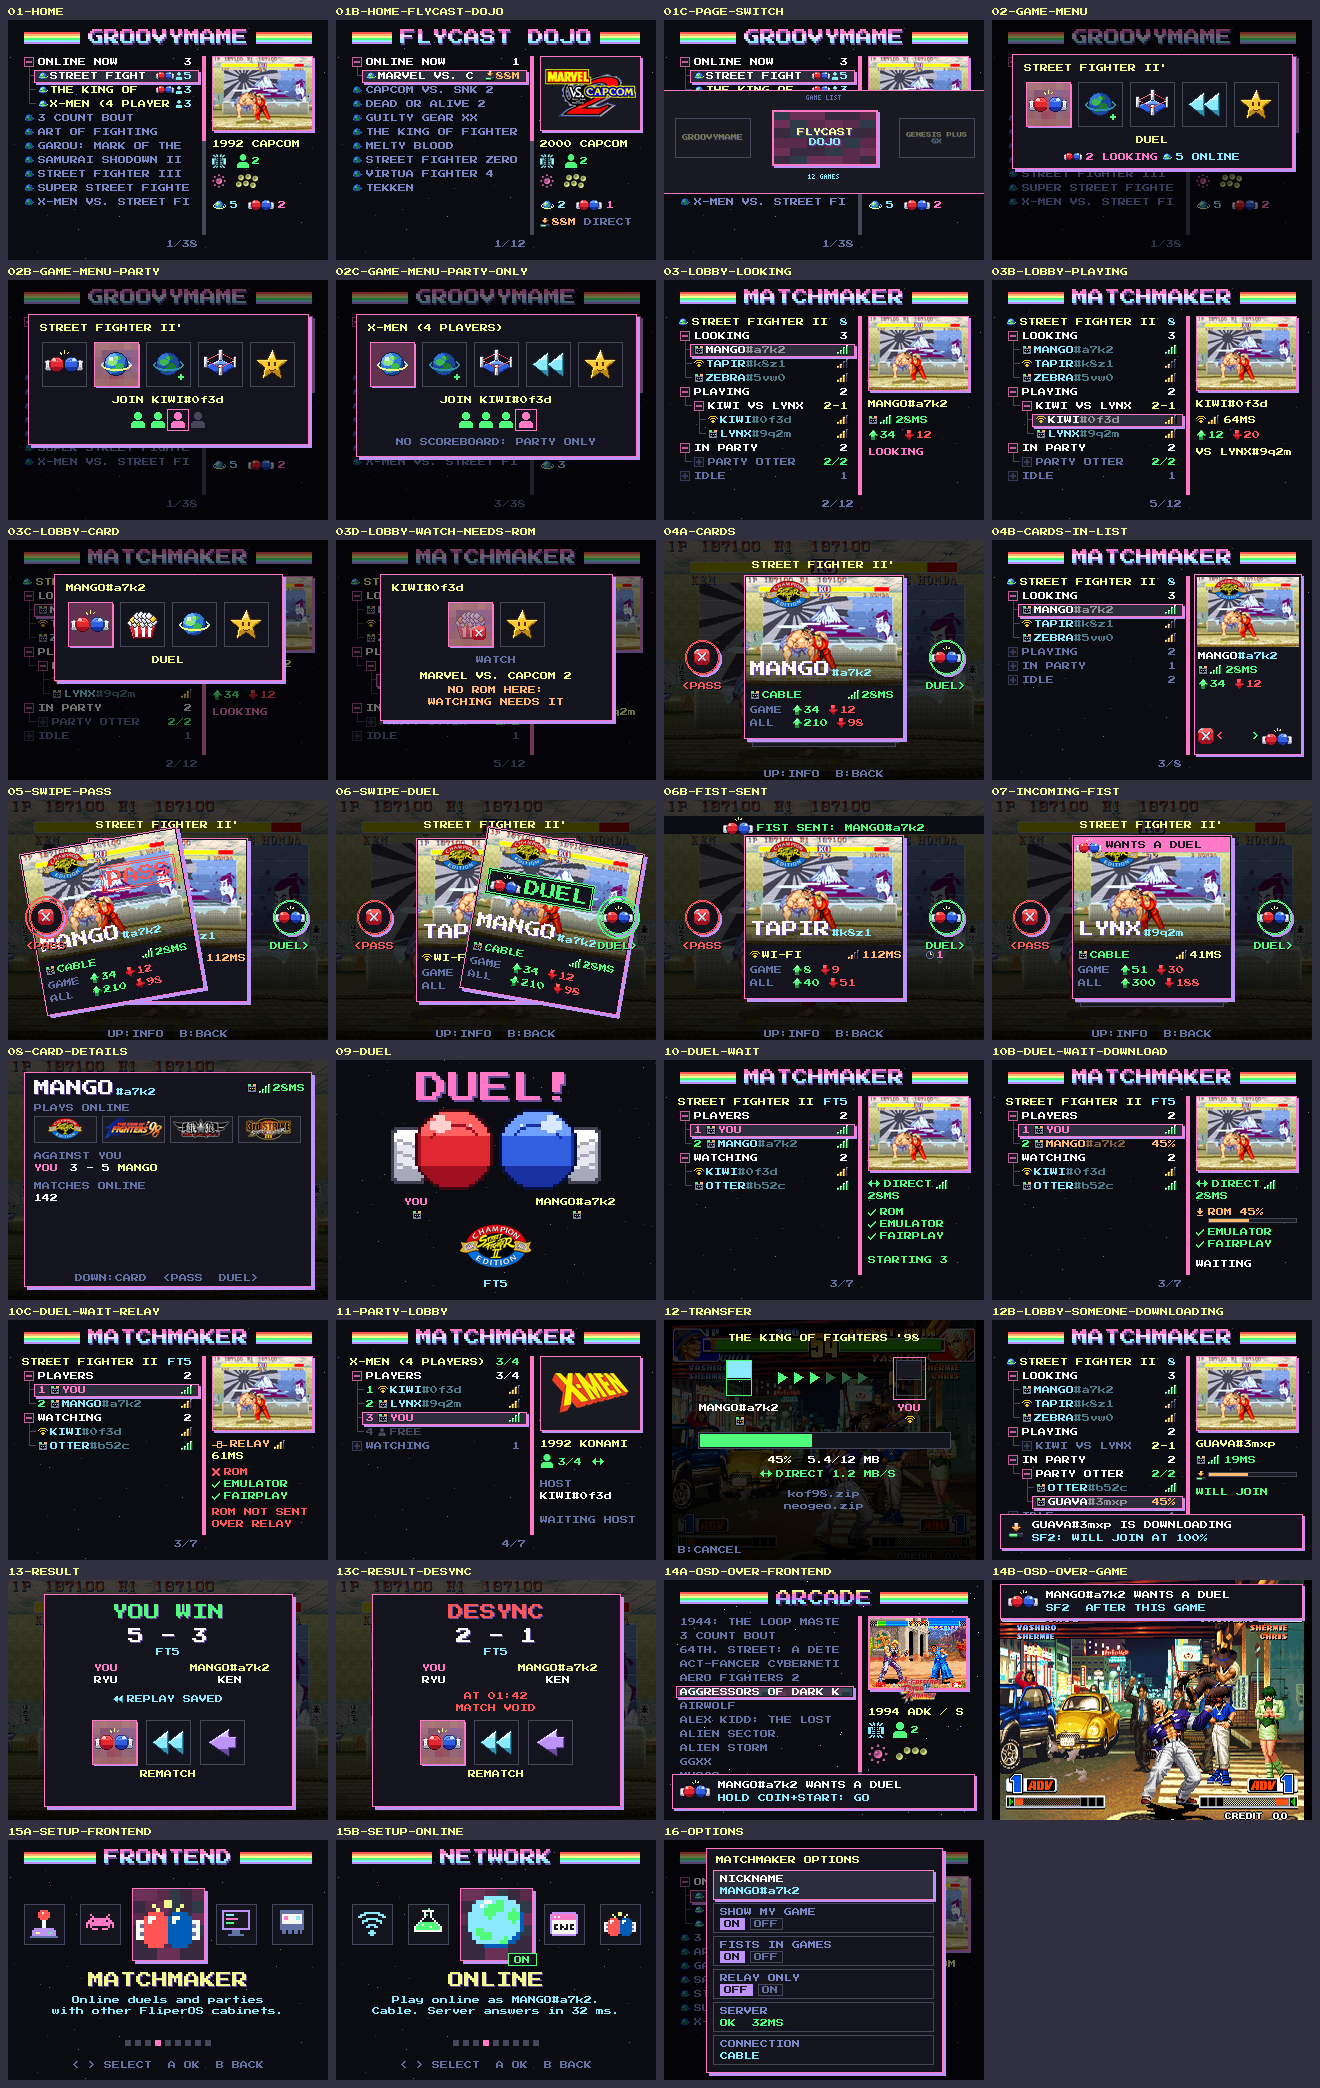
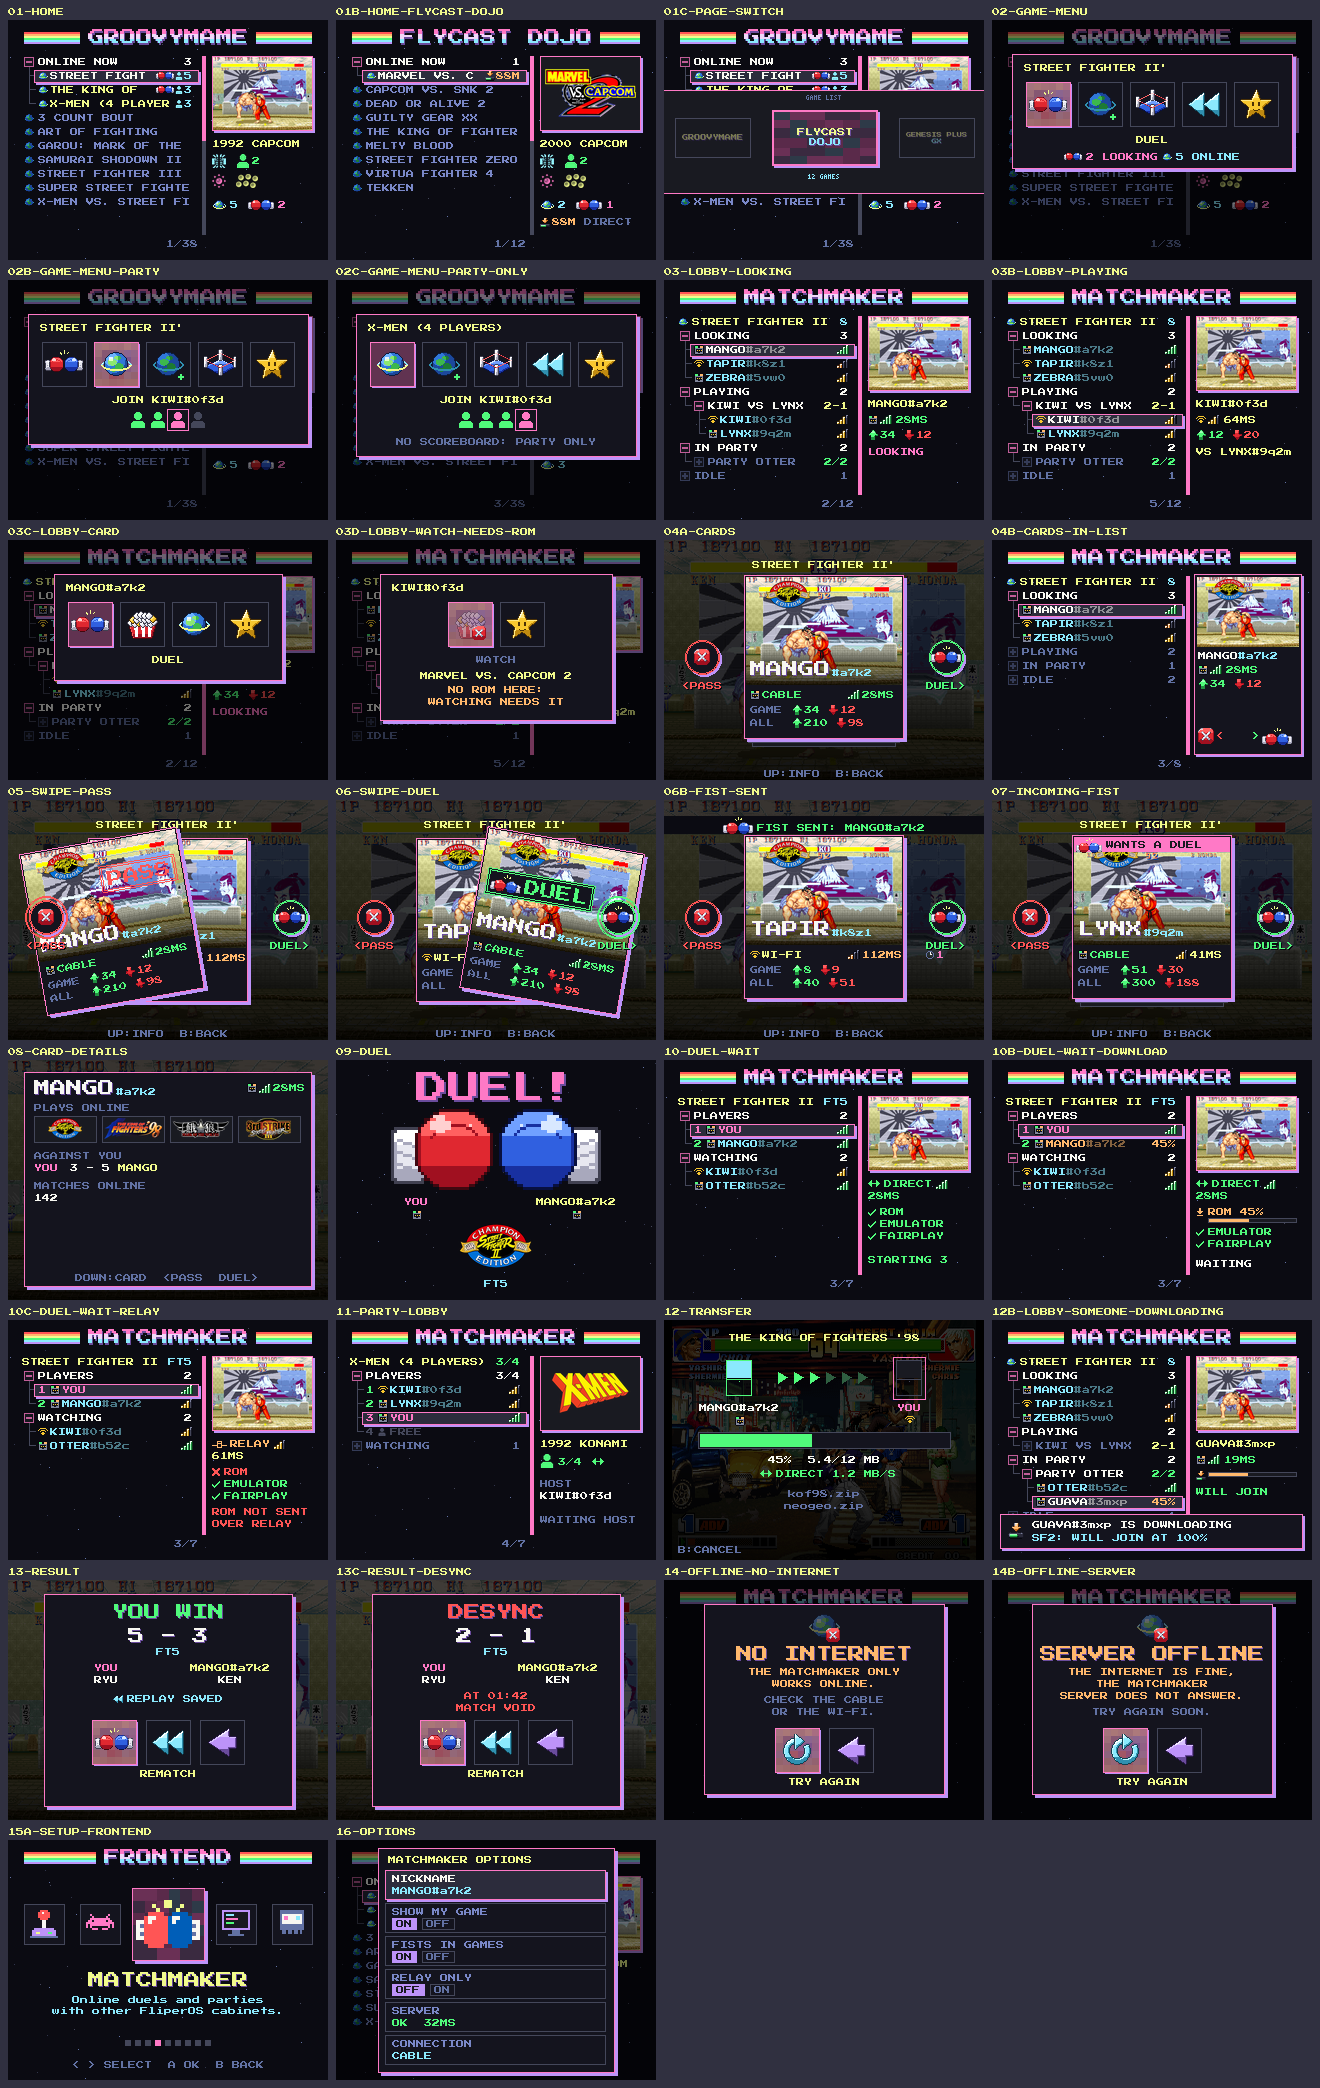
Matchmaker: online so dentro do Matchmaker, e a tela de quem esta offline
O usuario decidiu que o online existe so com o Matchmaker aberto: sem o
item ONLINE no Setup > Network, sem avisos no OSD fora dele e sem servico
sempre ligado. Os ajustes online ficam so nas opcoes do Matchmaker.

- Ao entrar, o Matchmaker confere a internet e o servidor: as telas
  14-offline-no-internet e 14b-offline-server (TRY AGAIN ou voltar).
  Sairam as telas do OSD (14a, 14b) e do Setup > Online (15b).
- O icone de tentar de novo (iconlab.retry_icon): o anel girando no
  sentido do relogio, aberto no alto a direita, com a ponta da seta reta
  no alto apontando para a abertura.
- matchmaker-plan.md: as decisoes novas (online so dentro do Matchmaker,
  o Setup so com o frontend, o backup na nuvem com a ficha assinada e o
  PIN) e o que roda no gabinete. TODO.md: a fase 1 com o servidor no ar,
  o backup na nuvem.

Changed region(s): [[0.2485, 0.7471, 0.9939, 0.9962]]

diff --git a/tools/matchmaker/mockups.py b/tools/matchmaker/mockups.py
@@ -1666,6 +1666,39 @@ def result_screen(kind="win"):
 
 # ------------------------------------------------------------ 14: OSD notice
 
+def offline_screen(kind):
+    """Entering the Matchmaker without being online: it checks the internet and
+    the server first, and says what is missing (it only works online; nothing
+    of the Matchmaker runs outside it)."""
+    cv = canvas()
+    cv.dim_all(0.35)
+    globe_x = dimmed(planet(True, TILE_ICON))
+    retry = iconlab.retry_icon()
+    back = iconlab.Icon(32).poly([(3, 16), (22, 3), (22, 11), (29, 11), (29, 21), (22, 21), (22, 29)], "purple").im
+    if kind == "internet":
+        title, lines, color, strong = "NO INTERNET", ["THE MATCHMAKER ONLY", "WORKS ONLINE.", "CHECK THE CABLE", "OR THE WI-FI."], ORANGE, 2
+    else:
+        title, lines, color, strong = "SERVER OFFLINE", ["THE INTERNET IS FINE,", "THE MATCHMAKER", "SERVER DOES NOT ANSWER.", "TRY AGAIN SOON."], ORANGE, 3
+
+    def body(c, x0, x1, y):
+        for i, ln in enumerate(lines):
+            c.center(y + 12 * i + (4 if i >= strong else 0), ln, color if i < strong else COMMENT, x0, x1)
+    w = 240
+    x0 = (W - w) // 2
+    y0, y1 = 24, 214
+    cv.box(x0 + 3, y0 + 3, x0 + w + 3, y1 + 3, fill=PURPLE)
+    cv.box(x0, y0, x0 + w, y1, fill=CARD, outline=PINK)
+    cv.paste_icon(globe_x, (W - globe_x.width) // 2, y0 + 6)
+    big_center(cv, y0 + 42, title, color, x0=x0, x1=x0 + w)
+    body(cv, x0, x0 + w, y0 + 64)
+    size, gap = TILE, 10
+    tx = (W - (2 * size + gap)) // 2
+    for i, ic in enumerate((retry, back)):
+        fm.tile(cv, tx + i * (size + gap), y0 + 124, size, ic, i == 0, fm.snap("sf2ce"))
+    cv.center(y0 + 124 + size + 6, "TRY AGAIN", YELLOW, x0, x0 + w)
+    return cv
+
+
 def osd_over_frontend():
     bg = Image.open(REAL_LIST).convert("RGB").resize((W, H), Image.NEAREST)
     cv = fm.Canvas(bg=bg)
@@ -1997,10 +2030,9 @@ def main():
         "12b-lobby-someone-downloading": lobby_screen("guava", ("GUAVA#3mxp IS DOWNLOADING", "SF2: WILL JOIN AT 100%")),
         "13-result": result_screen("win"),
         "13c-result-desync": result_screen("desync"),
-        "14a-osd-over-frontend": osd_over_frontend(),
-        "14b-osd-over-game": osd_over_game(),
+        "14-offline-no-internet": offline_screen("internet"),
+        "14b-offline-server": offline_screen("server"),
         "15a-setup-frontend": setup_frontend(ti),
-        "15b-setup-online": setup_online(ti),
         "16-options": options_screen(),
     }
     for name, cv in shots.items():

diff --git a/tools/matchmaker/iconlab.py b/tools/matchmaker/iconlab.py
@@ -1252,6 +1252,20 @@ def loss_sheet():
     return out
 
 
+# ------------------------------------------------------------------ TRY AGAIN
+
+def retry_icon(ramp="cyan"):
+    """Try again: a thick ring turning clockwise, open at the top right, with a
+    straight arrowhead at its top end pointing right, into the opening."""
+    I = Icon()
+    cx, cy, r, t = 15.5, 17, 10, 5
+    # the ring from 330 degrees (right, a little up) clockwise round to 270 (the top)
+    I.arc((cx - r - t / 2, cy - r - t / 2, cx + r + t / 2, cy + r + t / 2), 330, 270, t, ramp)
+    top = cy - r                                     # the middle of the stroke at the top
+    I.poly([(14, top - 7), (14, top + 7), (22, top)], ramp)
+    return I.im
+
+
 # ------------------------------------------------------------------ THE CHOSEN ONES
 
 # What the user chose on 2026-11-27 (fists: fists.py option 3).

diff --git a/docs/research/matchmaker-plan.md b/docs/research/matchmaker-plan.md
@@ -21,10 +21,11 @@ The mock-ups are in [`matchmaker-mockups/`](matchmaker-mockups/) (320x240 shown 
 | Connection | Every player shows **Wi-Fi or cable** (the RX/TX jack) and the ping |
 | ROMs | Sent **automatically to whoever plays**, cabinet to cabinet, only over a direct connection (never through the relay). **Spectators never get the ROM**: watching needs it already on the cabinet |
 | Server | The project's own server (Coolify, where the site runs). A relay only when a direct connection is impossible (CGNAT on both sides); rollback hides the longer path, it cannot create a route the NAT blocks |
-| Notifications | A fist bump received outside the Matchmaker shows on the OSD bar, in the frontend or in a game, with a shortcut to the Matchmaker |
+| Online only inside it | The cabinet is online **only while the Matchmaker is open**: no background service, no notifications outside it (a fist bump shows only inside the Matchmaker). On entering, the Matchmaker checks the internet and the server and says what is missing |
 | Wins and losses | Kept **only on the server**, encrypted and fraud-proof (see FairPlay). **No dispute mode**: a match the two cabinets don't agree on simply doesn't count |
 | No chat | The Matchmaker has no chat |
-| Setup | Setup > Network > ONLINE switches the online service on and off (A, like DEBUG MODE), with an 8-bit icon in the Setup's style. The online settings are in both Setup > Network and the Matchmaker's options |
+| Setup | The Matchmaker is a frontend in Setup > Games > Frontend (an 8-bit gloves icon in the Setup's style). There is no online item in the Setup: the online settings are in the Matchmaker's options |
+| Cloud backup | The cabinet's identity and its record go in the cloud backup (rclone): the record as a profile **signed by the server** (Ed25519) and encrypted (AES-256-GCM), the identity's secret sealed with a **6-digit PIN** (Argon2id). Reinstalling asks for the PIN once |
 
 ## The screens
 
@@ -71,11 +72,11 @@ The gloves come in and bump, the flash, DUEL!, both names, the game's logo and F
 - Transfer ([12](matchmaker-mockups/12-transfer.png)), and what the others see while someone downloads ([12b](matchmaker-mockups/12b-lobby-someone-downloading.png)).
 - Result: [13](matchmaker-mockups/13-result.png) (REMATCH, REPLAY, BACK); a match that lost sync does not count ([13c](matchmaker-mockups/13c-result-desync.png)).
 
-### Outside the Matchmaker
+### Entering, the Setup, the options
 
-- The OSD bar over the frontend and over a game ([14a](matchmaker-mockups/14a-osd-over-frontend.png), [14b](matchmaker-mockups/14b-osd-over-game.png)).
-- The Matchmaker in Setup > Games > Frontend, with its 8-bit gloves icon ([15a](matchmaker-mockups/15a-setup-frontend.png)), and ONLINE in Setup > Network ([15b](matchmaker-mockups/15b-setup-online.png)).
-- The Matchmaker's options ([16](matchmaker-mockups/16-options.png)).
+- Entering without the internet ([14](matchmaker-mockups/14-offline-no-internet.png)) or with the server not answering ([14b](matchmaker-mockups/14b-offline-server.png)): TRY AGAIN or back.
+- The Matchmaker in Setup > Games > Frontend, with its 8-bit gloves icon ([15a](matchmaker-mockups/15a-setup-frontend.png)).
+- The Matchmaker's options ([16](matchmaker-mockups/16-options.png)): the online settings live only there.
 
 ### The icons
 
@@ -84,7 +85,8 @@ All the Matchmaker's icons are 16-bit sprites (a dark outline, a bevel, four ton
 ## How it would work
 
 - **Server** (`server/matchmaker/`, Python asyncio, WebSocket over TLS, SQLite on an encrypted volume), deployed on Coolify: identity, presence, lobbies, parties, fist bumps and duels, results, replays. The Coolify server sits behind CGNAT and is reached through a Cloudflare Tunnel, so the server opens **no UDP port**: the cabinets learn their public address from Cloudflare's STUN (`stun.cloudflare.com`), and the relay is **Cloudflare Realtime TURN** (the server hands out short-lived credentials per match and stops before the 1,000 GB monthly free tier).
-- **On the cabinet:** a session service (`fliperos-online`) that stays connected, a small root service for the tunnel, and the Matchmaker program (pygame, `mmview.py` for the list-mode look).
+- **On the cabinet:** the Matchmaker program (pygame, `mmview.py` for the list-mode look) connects while it is open; a small root helper sets up the tunnel of a match. Nothing online runs when the Matchmaker is closed.
+- **The profile (the record):** after every accepted match the server issues the player's profile, signed with Ed25519 (the private key only in the server's environment; FliperOS carries the public key, `GET /pubkey`). The cabinet keeps it in its cloud backup encrypted with AES-256-GCM (a key from its secret by HKDF), and the secret sealed with AES-256-GCM under a key from the player's PIN by Argon2id. Editing the profile breaks the signature; an older one loses to a newer version; the server stays the authority.
 - **The match: a WireGuard tunnel per match.** The server introduces the two cabinets; they open their NATs with simultaneous handshakes (LAN address, IPv6, public IPv4 from STUN); if that fails, the WireGuard packets go through Cloudflare's TURN, through a small local forwarder between WireGuard and the TURN allocation (the relay never sees inside the WireGuard packets). Inside the tunnel runs the local party code that is already tested on hardware (felink's party and file server, GroovyMAME's lockstep, Flycast's GGPO, RetroArch's net play), with the input delay taken from the ping.
 - **ROM check:** the CRC and size of each file inside the zip, `-verifyroms` on both sides for MAME, FBNeo's own CRC list. A different version goes to its own folder; nothing of the user's is overwritten.
 

diff --git a/TODO.md b/TODO.md
@@ -58,9 +58,10 @@ O link e o net play pelo frontend entraram na 0.19; depois, o net play ganhou to
 ## Matchmaker online
 
 Pedido de 2026-11-27: duelos e parties pela internet num programa à parte do frontend (o FliperOS Matchmaker). A fase 0, as telas e as decisões, está em [matchmaker-plan](docs/research/matchmaker-plan.md). Falta construir, nesta ordem:
-- **Fase 1:** servidor no Coolify (antes, conferir se ele recebe UDP e tem IPv6), identidade `APELIDO#xxxx`, presença, e o Matchmaker só de leitura (as páginas por emulador e o lobby).
+- **Fase 1:** o servidor está no ar (`wss://fliperos-matchmaker.juniorter.in/ws`: identidade `APELIDO#xxxx`, presença, salas e a ficha assinada). Falta o lado do gabinete: o cliente, a conferência de estar online ao entrar, e o Matchmaker só de leitura (as páginas por emulador e o lobby).
 - **Fase 2:** o túnel WireGuard por partida (direto, ou pelo relay só com CGNAT dos dois lados) e a party online com os emuladores de hoje; o envio da ROM só na conexão direta.
-- **Fase 3:** o duelo pelas cartas (os punhos, FT5), os avisos no OSD, o registro das partidas.
+- **Fase 3:** o duelo pelas cartas (os punhos, FT5), os avisos (só dentro do Matchmaker), o registro das partidas.
+- **Backup na nuvem:** a identidade selada com o PIN (Argon2id) e a ficha assinada pelo servidor (Ed25519) e cifrada (AES-256-GCM), no backup do rclone.
 - **Fase 4:** o FairPlay e as vitórias e derrotas à prova de fraude, sem modo disputa.
 - **Fase 5:** replays e espectadores (quem assiste precisa já ter a ROM).
 - **Fase 6:** o Flycast Dojo como pacote opcional.
